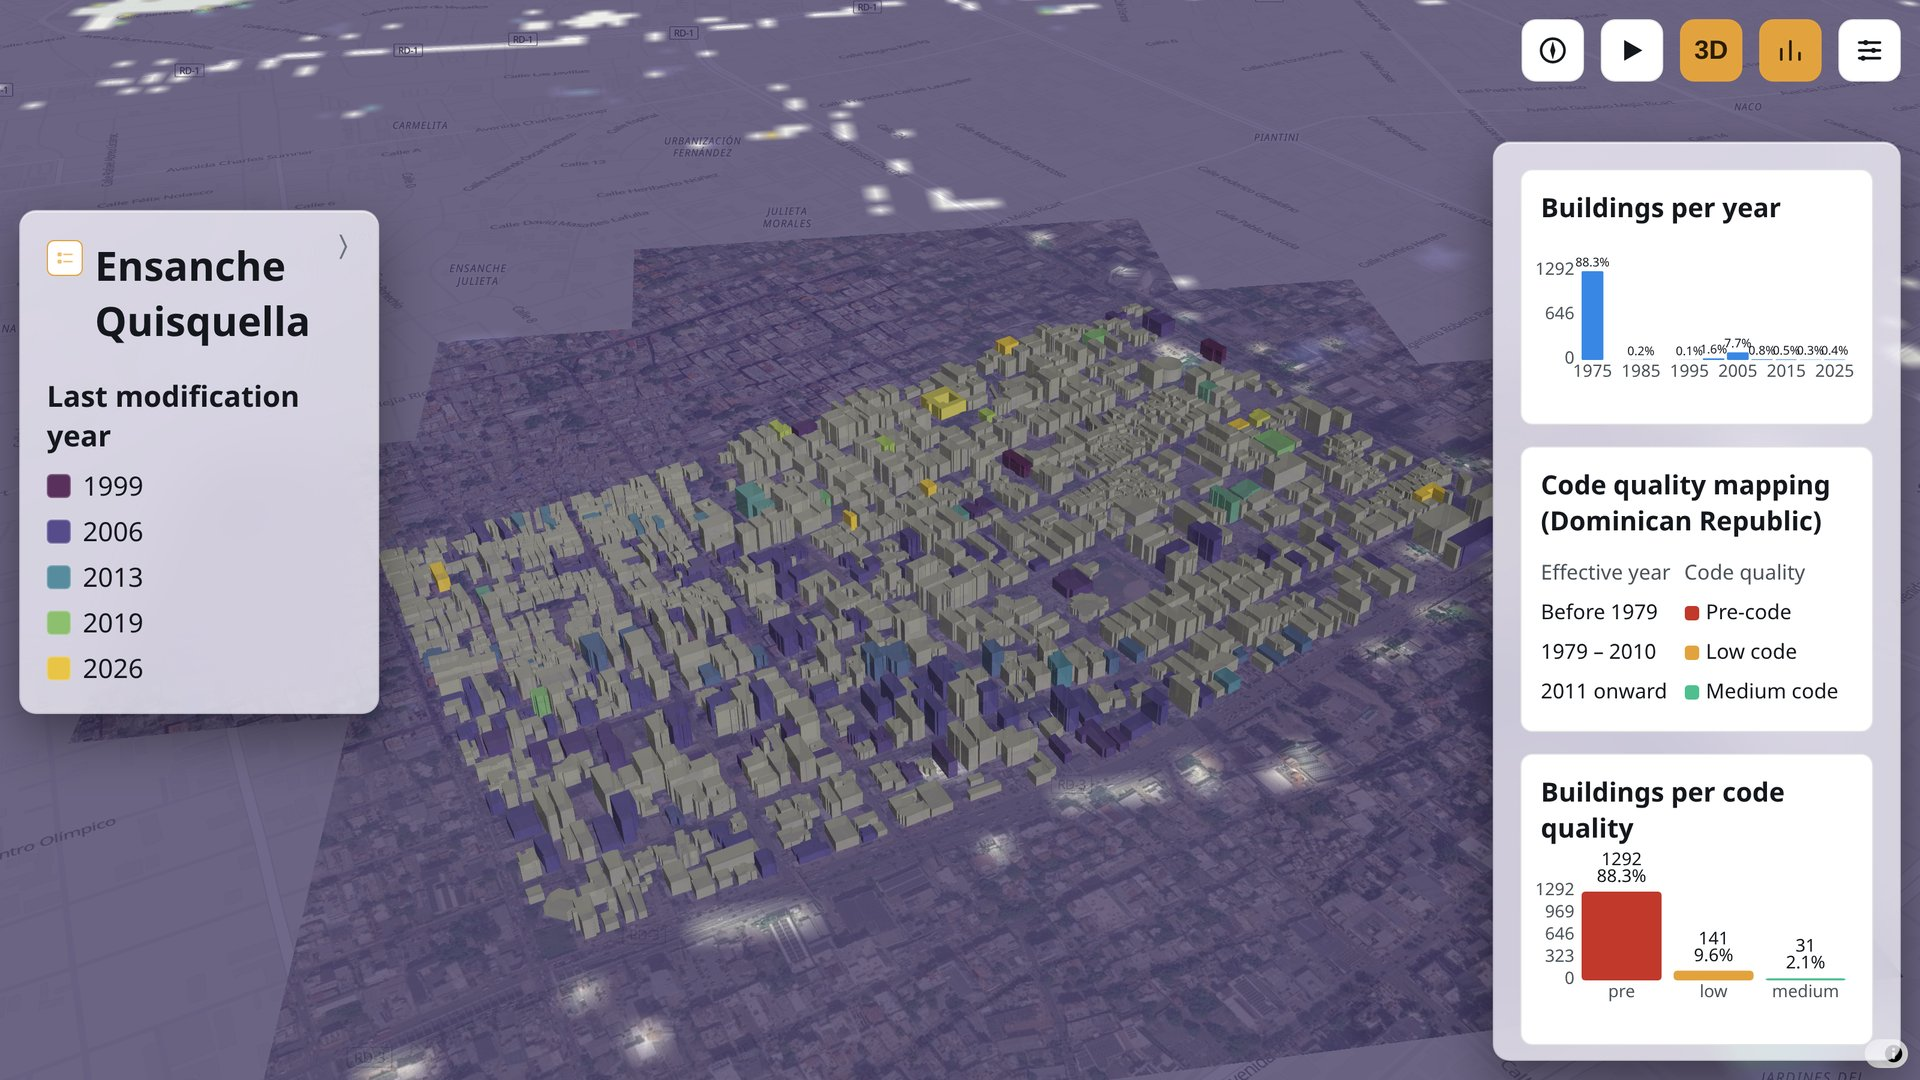
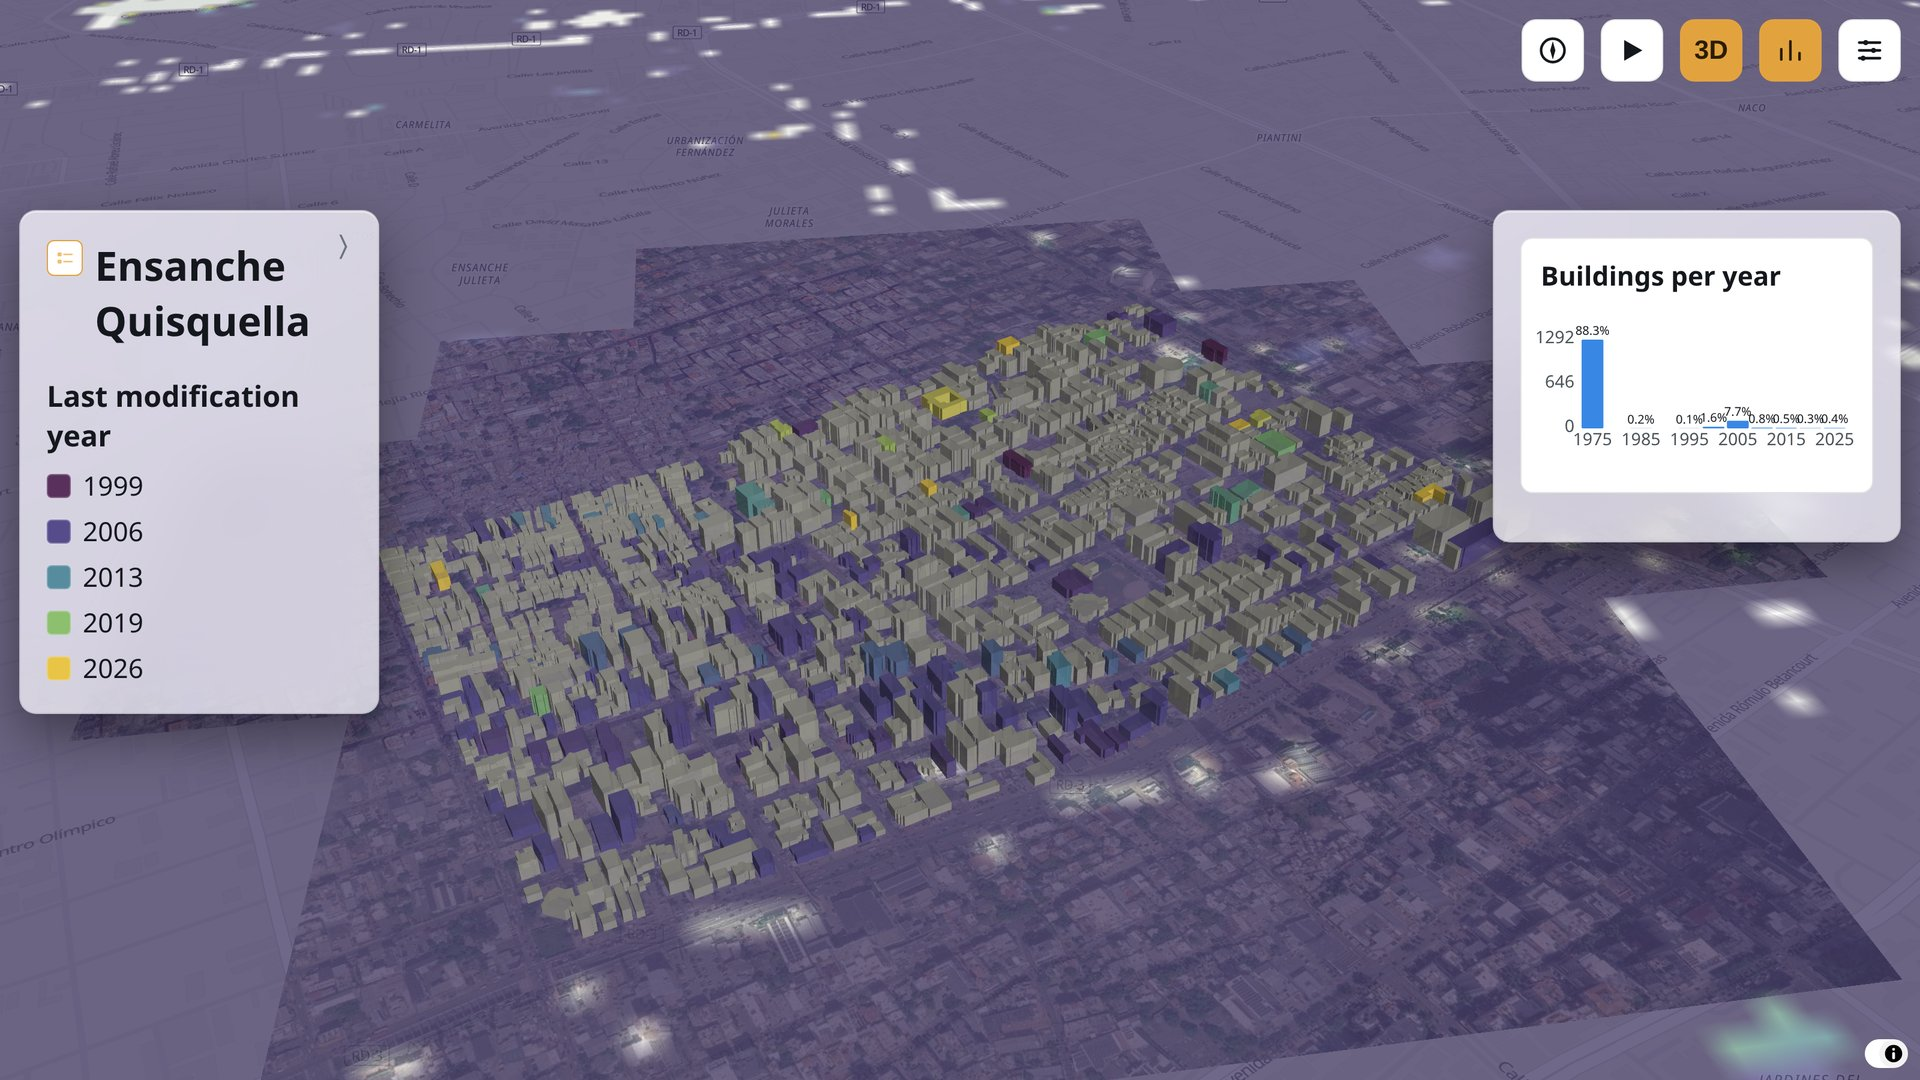
update

diff --git a/maps/structural_system/main.js b/maps/structural_system/main.js
@@ -689,8 +689,12 @@ function renderCompositionChart() {
   const keys = compositionOrder.filter((k) => predCounts[k] || trainCounts[k] || testCounts[k]);
 
   const margin = { ...CHART_MARGIN };
+  // Taller than the shared CHART_HEIGHT -- 3 series x up to 4 classes (12
+  // skinny bars, each needing its own %-label above it) reads as squashed
+  // at the shared height every other chart in this file uses.
+  const chartHeight = 190;
   const plotWidth = CHART_WIDTH - margin.left - margin.right;
-  const plotHeight = CHART_HEIGHT - margin.top - margin.bottom;
+  const plotHeight = chartHeight - margin.top - margin.bottom;
   const groupGap = 10;
   const groupWidth = (plotWidth - groupGap * (keys.length - 1)) / keys.length;
   const barGap = 2;
@@ -744,7 +748,7 @@ function renderCompositionChart() {
   const seriesLegend = series
     .map((s) => `<span style="display:inline-flex;align-items:center;gap:4px;margin-right:10px"><span style="width:10px;height:10px;border-radius:2px;background:#9aa5ac;opacity:${s.opacity};display:inline-block"></span>${s.tag}</span>`)
     .join("");
-  container.innerHTML = `<svg viewBox="0 0 ${CHART_WIDTH} ${CHART_HEIGHT}">
+  container.innerHTML = `<svg viewBox="0 0 ${CHART_WIDTH} ${chartHeight}">
     <line x1="${margin.left}" y1="${plotBottom}" x2="${CHART_WIDTH - margin.right}" y2="${plotBottom}" stroke="rgba(255,255,255,0.18)"></line>
     <line x1="${margin.left}" y1="${margin.top}" x2="${margin.left}" y2="${plotBottom}" stroke="rgba(255,255,255,0.18)"></line>
     ${yAxisLabels}

diff --git a/maps/year/main.js b/maps/year/main.js
@@ -557,11 +557,25 @@ onBuildingClick = selectBuilding;
 // ---------------------------------------------------------------------------
 // Attribute (color-by) switching.
 let attributeDropdown = null;
+// The charts panel used to always show all 3 cards at once (buildings-per-
+// year, the code-quality mapping table, buildings-per-code-quality) --
+// cramped and mostly irrelevant to whichever attribute is actually being
+// shown. Now it shows just the group that matches the active attribute:
+// "year" (buildings-per-year) while first/last-construction-year is active,
+// "code" (the mapping table + breakdown) while code-quality is active.
+function applyChartVisibility(attribute) {
+  const group = attribute.kind === "categorical" ? "code" : "year";
+  document.querySelectorAll(".chart-card[data-chart-group]").forEach((card) => {
+    card.classList.toggle("hidden", card.dataset.chartGroup !== group);
+  });
+}
+
 function setAttribute(attribute, { fromShowcase = false } = {}) {
   state.attribute = attribute;
   attributeDropdown?.setValue(attribute.name);
   renderLegend();
   renderLayer();
+  applyChartVisibility(attribute);
   if (!fromShowcase) stopShowcase({ resumeAfterIdle: true });
 }
 

diff --git a/maps/year/index.html b/maps/year/index.html
@@ -101,15 +101,15 @@
       <aside id="charts-panel" class="glass-panel">
         <div id="charts-panel-content">
           <div id="charts-body">
-            <div class="chart-card">
+            <div class="chart-card" data-chart-group="year">
               <h3>Buildings per year</h3>
               <div id="year-count-chart"></div>
             </div>
-            <div class="chart-card">
+            <div class="chart-card" data-chart-group="code">
               <h3>Code quality mapping (Dominican Republic)</h3>
               <div id="code-quality-mapping"></div>
             </div>
-            <div class="chart-card">
+            <div class="chart-card" data-chart-group="code">
               <h3>Buildings per code quality</h3>
               <div id="code-quality-chart"></div>
             </div>

diff --git a/maps/year/style.css b/maps/year/style.css
@@ -395,11 +395,11 @@ body,
 /* ---------- charts panel (right side, persistent) ---------- */
 #charts-panel {
   position: absolute;
-  top: 118px;
+  top: 175px;
   right: 16px;
   z-index: 10;
   width: 340px;
-  max-height: calc(100vh - 134px);
+  max-height: calc(100vh - 191px);
   overflow-y: auto;
   border-radius: 14px;
   padding: 22px;

diff --git a/maps/structural_system/style.css b/maps/structural_system/style.css
@@ -440,8 +440,8 @@ body,
 /* comparison view (learning curve + F1 across experiments) is fine at the
    original, less-far-down position. */
 body.view-comparison #charts-panel {
-  top: 140px;
-  max-height: calc(100vh - 156px);
+  top: 165px;
+  max-height: calc(100vh - 181px);
   width: 460px;
 }
 
